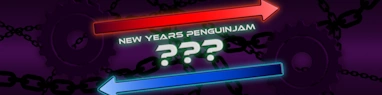
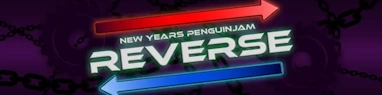
reveal penguinjam theme

diff --git a/src/routes/+page.svelte b/src/routes/+page.svelte
@@ -683,14 +683,14 @@
                 <!-- NOTE: This section is entirely hard-coded for time-relevant stuff, but avoid making new classes for a topic. -->
                 <div class="category-news">
                     <div class="category-news-content">
-                        <h2 style="margin-block:4px;">A PenguinJam to end the year!</h2>
+                        <h2 style="margin-block:4px;">New Year's PenguinJam has started!</h2>
                         <div style="width:100%">
                             <p>
-                                New Years is approaching! Start the new year off fresh by joining the PenguinJam!
+                                The theme is "Reverse!"
                                 <br />
-                                The theme will be announced on December 21st at 5:00 PM EST.
+                                Have fun making projects around this theme to get a badge!
                                 <br />
-                                See the event page for more details!
+                                See the event page for details on how to submit!
                             </p>
                             <p style="margin-block-start:4px;">
                                 <a href="https://penguinmod.com/events/penguinjamnewyears2025">New Year's PenguinJam 2025</a>

diff --git a/src/resources/markdown/events/ru/penguinjamnewyears2025.md b/src/resources/markdown/events/ru/penguinjamnewyears2025.md
@@ -1,6 +1,6 @@
 # Добро пожаловать в Новогодний PenguinJam 2025!
 
-Тема пока не объявлена! Возвращайтесь, когда начнётся Game Jam.
+Тема этого года: “Задом наперёд.” Интерпретируйте как вам вздумается! Вещи, которые вы можете делать, это перевернуть управление, изменение ролей, или управление временем. Это просто несколько идей, удивите нас!
 
 ## Длительность PenguinJam:
 С 21-ого декабря 17:00 по МСК по 1-ое января 17:00 по МСК

diff --git a/src/resources/markdown/events/ja/penguinjamnewyears2025.md b/src/resources/markdown/events/ja/penguinjamnewyears2025.md
@@ -1,6 +1,6 @@
 # 新年のPenguinJam 2025にようこそ！
 
-テーマはまだ公開されていません。公開されたらまたここに確認しにきてください。
+今年のテーマは「Reverse（逆、裏、反対）」です。どう解釈するかは任せます！操作を反転させたり、役割を逆にしたり、逆再生にしたり…。これらはほんの一例です。ぜひ私たちを驚かせてください！
 
 ## 開催日
 12月22日 日本時間午前7時 〜 1月1日 日本時間午前7時

diff --git a/src/resources/markdown/events/cs/penguinjamnewyears2025.md b/src/resources/markdown/events/cs/penguinjamnewyears2025.md
@@ -1,6 +1,6 @@
 # Vítejte na Novoročním PenguinJam 2025!
 
-Téma ještě nebylo vydáno, prosím, vraťte se sem a podívejte se na něj, jakmile bude vydáno.
+Téma na letošní rok je “Reverse.” Představte si to jakkoli chcete! Nějaké věci mohou mít prohozené funkce, vyměněné role nebo obrácený čas. Toto je jen pár nápadů, buďte kreativní a překvapte nás!
 
 ## Délka Jamu:
 21\. Prosinec, 5:00 PM EST - 1. Leden, 5:00 PM EST

diff --git a/src/resources/markdown/events/es/penguinjamnewyears2025.md b/src/resources/markdown/events/es/penguinjamnewyears2025.md
@@ -1,6 +1,6 @@
 # ¡Bienvenido al PenguinJam de Año Nuevo 2025!
 
-¡El tema aún no se ha revelado! Vuelve cuando empiece la Game Jam.
+El tema de este año es “Inverso”. ¡Interprétalo como quieras! Algunas cosas que puedes hacer son invertir los controles, cambio de roles o rebobinar el tiempo. Estas son solo algunas ideas, ¡sorpréndenos!
 
 ## Duración de la Jam:
 Diciembre 21, 5:00 PM EST - Enero 1, 5:00 PM EST

diff --git a/src/resources/markdown/events/tr/penguinjamnewyears2025.md b/src/resources/markdown/events/tr/penguinjamnewyears2025.md
@@ -1,6 +1,6 @@
 # 2025 Yeni Yıl PenguinJam’e hoş geldin!
 
-Tema henüz açıklanmadı. Lütfen Game Jam başladığında geri gel
+Bu yılın teması "Ters" (Reverse). Dilediğiniz gibi yorumlayın! Yapabileceğiniz bazı şeyler; kontrolleri tersine çevirmek, rolleri değiştirmek veya zamanı geri sarmaktır. Bunlar sadece birkaç fikir, bizi şaşırtın!
 
 ## Jam Süresi:
 22 Aralık saat 01:00 = 2 Ocak saat 01:00

diff --git a/src/resources/markdown/events/en/penguinjamnewyears2025.md b/src/resources/markdown/events/en/penguinjamnewyears2025.md
@@ -1,6 +1,6 @@
 # Welcome to New Year's PenguinJam 2025!
 
-The theme has not been revealed yet! Come back here when the Game Jam starts.
+This year’s theme is “Reverse.” Interpret it however you like! Some things you can do are to flip controls, change roles, or rewind time. These are just a few ideas, surprise us!
 
 ## Jam Duration:
 December 21, 5:00 PM EST - January 1, 5:00 PM EST
